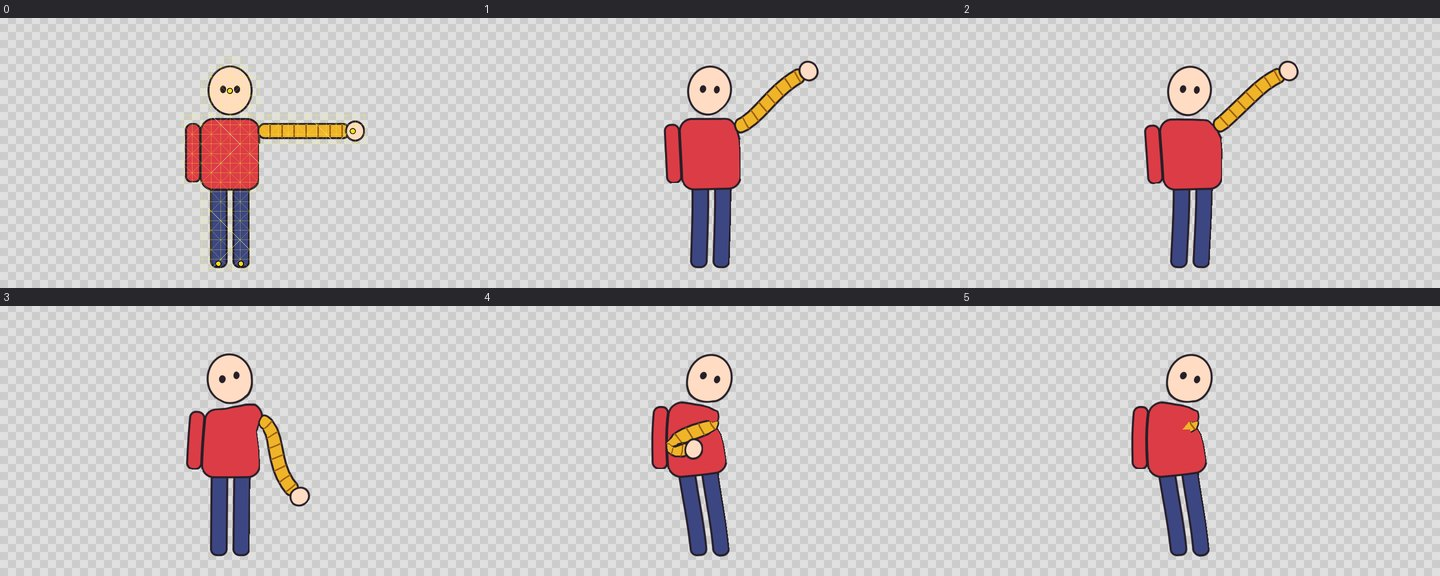
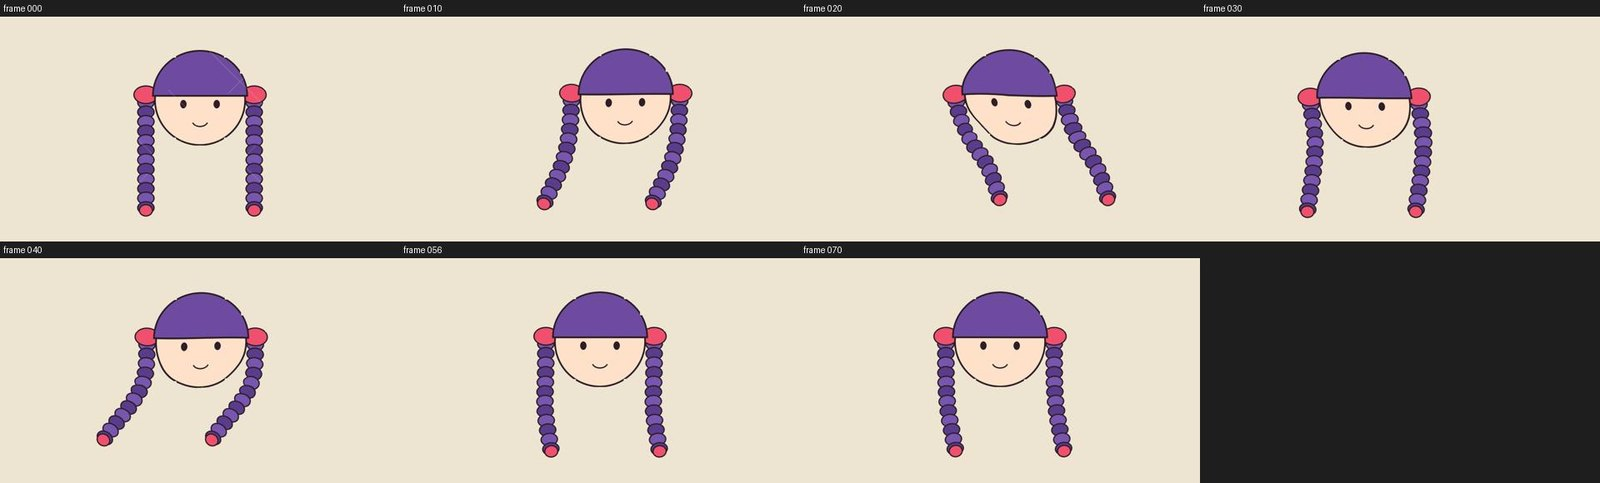
PuppetPin 1.1.0: pin parents and physics swinging

diff --git a/data/plugins.js b/data/plugins.js
@@ -155,21 +155,25 @@ window.SITE_DATA = {
   {
    "id": "puppetpin",
    "name": "PuppetPin",
-   "version": "1.0.0",
-   "updated": "2026-10-27",
+   "version": "1.1.0",
+   "updated": "2026-11-02",
    "category": "Fusion ノード",
    "tags": [
     "変形",
     "キャラクター",
-    "アニメーション"
+    "アニメーション",
+    "物理演算"
    ],
-   "summary": "パペットピン風のメッシュ変形",
+   "summary": "パペットピン風のメッシュ変形。親子関係と物理演算で髪や紐も揺れる",
    "description": [
     "画像のアルファから三角形のメッシュを作り、ピンを動かして画像を変形します。なるべく形を保ったまま曲がるので、キャラクターの腕を振る、ロゴをぐにゃっと曲げるといった動きが簡単に作れます。",
-    "ピンは最大 16 本。動かすピンのほか、回転と大きさを決めるピン、硬さを足すピン、重なりの前後を決めるピンがあります。"
+    "ピンは最大 16 本。動かすピンのほか、回転と大きさを決めるピン、硬さを足すピン、重なりの前後を決めるピンがあります。",
+    "1.1.0 からピンに親子関係を付けられます。子のピンは親の動きと回転について行き、「物理演算で揺らす」をオンにすると、重力・バネ・減衰・風に従って親からぶら下がって揺れます。頭を動かすだけで髪の毛や紐、しっぽが遅れてしなる動きになります。親を付けなければ今まで通りすべて手動です。"
    ],
    "features": [
     "最大 16 本のピン（位置・曲げ・硬さ・重なり）",
+    "ピンの親子関係（子は親の移動と回転について行く）",
+    "物理演算で揺れるピン（重力・形を保つ強さ・減衰・伸び縮み・風）。揺れの量 0〜1 で手動と混ぜられる",
     "形を保つ変形（ARAP）で自然に曲がる",
     "「ピンを配置」モードで、変形前の画像にピンを置ける",
     "メッシュの細かさ、硬さの反復回数、メッシュ表示を調整"
@@ -177,7 +181,8 @@ window.SITE_DATA = {
    "usage": [
     "Fusion ページで PuppetPin ノードを追加し、アルファのある画像をつなぐ",
     "「ピンを配置」をオンにして、ピンを有効にし画像の上に置く",
-    "「ピンを配置」をオフにして、位置ピンをキーフレームで動かす"
+    "「ピンを配置」をオフにして、位置ピンをキーフレームで動かす",
+    "髪や紐を揺らすとき: 根元から先へピンを並べ、それぞれの「親」を1つ前のピンにして「物理演算で揺らす」をオン。「Physics（物理）」ページで重力や風を調整"
    ],
    "install": "fuse",
    "requirements": "DaVinci Resolve Studio 21.1（Mac）で動作確認。Windows・無料版は未確認。Studio 限定（無料版では動かない）の可能性があります",
@@ -190,6 +195,11 @@ window.SITE_DATA = {
    ],
    "changelog": [
     {
+     "version": "1.1.0",
+     "date": "2026-11-02",
+     "notes": "ピンの親子関係と物理演算（髪・紐の揺れ）を追加"
+    },
+    {
      "version": "1.0.0",
      "date": "2026-10-27",
      "notes": "公開"
@@ -200,12 +210,16 @@ window.SITE_DATA = {
    "galleryUrls": [
     {
      "url": "images/puppetpin/gallery-1.jpg",
+     "caption": "頭のピンだけを左右に動かし、おさげは物理演算で揺らした例（0〜70 フレーム）"
+    },
+    {
+     "url": "images/puppetpin/gallery-2.jpg",
      "caption": "腕のピンを動かした例（0 は配置時のメッシュ表示）"
     }
    ],
    "download": {
-    "url": "downloads/puppetpin-1.0.0.zip",
-    "size": 9924
+    "url": "downloads/puppetpin-1.1.0.zip",
+    "size": 13725
    }
   },
   {

diff --git a/index.html b/index.html
@@ -29,7 +29,7 @@
 			<p>© <span id="year"></span> <span data-site-name></span></p>
 		</div>
 	</footer>
-	<script src="data/plugins.js?v=f2d77219fb"></script>
+	<script src="data/plugins.js?v=5cfa956ae1"></script>
 	<script src="assets/app.js?v=6f18d1e870"></script>
 </body>
 </html>

diff --git a/plugin.html b/plugin.html
@@ -18,7 +18,7 @@
 			<p>© <span id="year"></span> <span data-site-name></span></p>
 		</div>
 	</footer>
-	<script src="data/plugins.js?v=f2d77219fb"></script>
+	<script src="data/plugins.js?v=5cfa956ae1"></script>
 	<script src="assets/app.js?v=6f18d1e870"></script>
 </body>
 </html>
